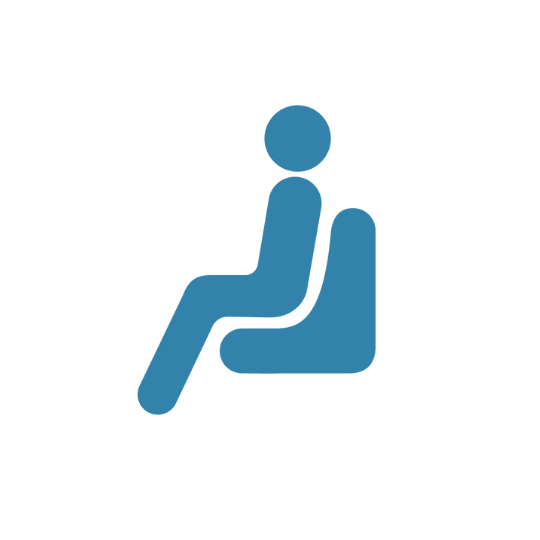
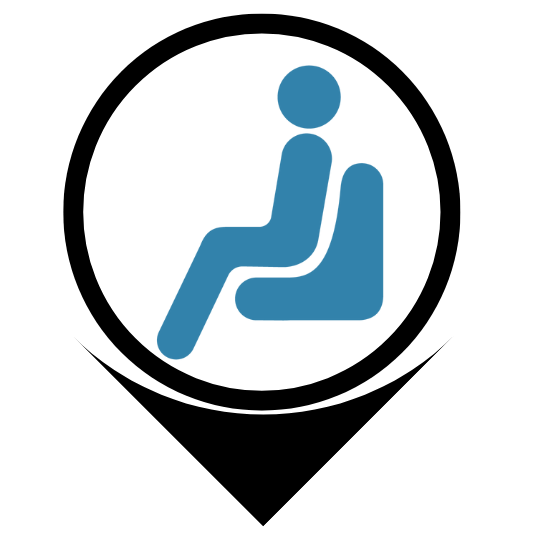
マップのデザインを修正

Changed region(s): [[0.1185, 0.0, 0.8593, 0.9778], [0.2963, 0.563, 0.3259, 0.6222], [0.7704, 0.6519, 0.8, 0.6815]]

diff --git a/next/src/pages/outdoorcoolingtips.tsx b/next/src/pages/outdoorcoolingtips.tsx
@@ -107,7 +107,7 @@ const OutdoorCoolingTips: NextPage = () => {
             elevation={3}
             sx={{
               display: 'inline-block',
-              padding: '1rem 2rem',
+              padding: '1rem 1rem',
               backgroundColor: '#ff7043',
               color: '#ffffff',
               borderRadius: '1rem',
@@ -126,6 +126,7 @@ const OutdoorCoolingTips: NextPage = () => {
               variant="h5"
               sx={{
                 fontWeight: 'bold',
+                fontSize: { xs: '1.25rem', sm: '1.5rem', md: '2rem' }, // レスポンシブ対応
                 display: 'inline-block',
                 verticalAlign: 'middle',
               }}
@@ -142,7 +143,7 @@ const OutdoorCoolingTips: NextPage = () => {
               sx={{
                 display: 'inline-block',
                 marginTop: '1rem',
-                padding: '1rem 2rem',
+                padding: '1rem 0.65rem',
                 backgroundColor: '#800080', // 背景色をダークパープルに変更
                 color: '#ffffff', // テキストを白に
                 borderRadius: '1rem',
@@ -159,9 +160,10 @@ const OutdoorCoolingTips: NextPage = () => {
                 }}
               />
               <Typography
-                variant="h5"
+                variant="h6"
                 sx={{
                   fontWeight: 'bold',
+                  fontSize: { xs: '1.25rem', sm: '1.5rem', md: '2rem' },
                   display: 'inline-block',
                   verticalAlign: 'middle',
                 }}
@@ -178,11 +180,13 @@ const OutdoorCoolingTips: NextPage = () => {
           gutterBottom
           sx={{
             fontWeight: 'bold',
-            color: '#000000',
+            color: '#333',
             marginBottom: '2rem',
             textTransform: 'uppercase',
-            letterSpacing: '2px',
+            letterSpacing: '1px',
             marginTop: '100px',
+            textShadow: '1px 1px 3px rgba(0, 0, 0, 0.2)',
+            fontSize: { xs: '2rem', sm: '2rem', md: '3rem' },
           }}
         >
           外でできる暑さ対策
@@ -391,11 +395,13 @@ const OutdoorCoolingTips: NextPage = () => {
           gutterBottom
           sx={{
             fontWeight: 'bold',
-            color: '#000000',
+            color: '#333',
             marginBottom: '2rem',
             textTransform: 'uppercase',
-            letterSpacing: '2px',
+            letterSpacing: '1px',
             marginTop: '100px',
+            textShadow: '1px 1px 3px rgba(0, 0, 0, 0.2)',
+            fontSize: { xs: '2rem', sm: '2em', md: '3rem' },
           }}
         >
           休憩所情報
@@ -405,10 +411,13 @@ const OutdoorCoolingTips: NextPage = () => {
           gutterBottom
           sx={{
             fontWeight: 'bold',
-            color: '#000000',
+            color: '#333',
             marginBottom: '2rem',
             textTransform: 'uppercase',
-            letterSpacing: '2px',
+            letterSpacing: '1px',
+            marginTop: '10px',
+            textShadow: '1px 1px 3px rgba(0, 0, 0, 0.2)',
+            fontSize: { xs: '1.5rem', sm: '1.5rem', md: '2.5rem' },
           }}
         >
           休憩所として市内の公共施設にお立ち寄りください
@@ -437,6 +446,114 @@ const OutdoorCoolingTips: NextPage = () => {
           boxShadow: '0 4px 15px rgba(0, 0, 0, 0.3)',
         }}
       ></Box>
+      <Box
+        sx={{
+          display: 'flex',
+          color: 'black',
+          fontSize: '3rem',
+          justifyContent: 'center',
+          alignItems: 'center',
+          marginTop: '1rem',
+          backgroundColor: '#f5f5f5',
+          borderRadius: '0.5rem',
+          boxShadow: '0 2px 8px rgba(0, 0, 0, 0.2)',
+        }}
+      >
+        <Box
+          sx={{
+            display: 'flex',
+            alignItems: 'center',
+            marginRight: { xs: '0.25rem', sm: '1rem', md: '1rem' },
+          }}
+        >
+          <Box
+            sx={{
+              width: { xs: 45, sm: 55, md: 80 }, // レスポンシブ対応の幅
+              height: { xs: 45, sm: 55, md: 80 }, // レスポンシブ対応の高さ
+              position: 'relative', // レスポンシブImageのために必要
+            }}
+          >
+            <Image
+              src="/userposition.png"
+              alt="ウォーターサーバー"
+              layout="fill" // 親ボックスに合わせて画像をリサイズ
+              objectFit="contain" // 画像のアスペクト比を保ちながらリサイズ
+            />
+          </Box>
+          <Typography
+            variant="body1"
+            sx={{
+              fontSize: { xs: '0.75rem', sm: '1rem', md: '1.25rem' },
+            }}
+          >
+            現在地
+          </Typography>
+        </Box>
+
+        <Box
+          sx={{
+            display: 'flex',
+            alignItems: 'center',
+            marginRight: { xs: '0.25rem', sm: '1rem', md: '1rem' },
+          }}
+        >
+          <Box
+            sx={{
+              width: { xs: 40, sm: 50, md: 75 }, // レスポンシブ対応の幅
+              height: { xs: 40, sm: 50, md: 75 }, // レスポンシブ対応の高さ
+              position: 'relative', // レスポンシブImageのために必要
+            }}
+          >
+            <Image
+              src="/coolingshelter.png"
+              alt="ウォーターサーバー"
+              layout="fill" // 親ボックスに合わせて画像をリサイズ
+              objectFit="contain" // 画像のアスペクト比を保ちながらリサイズ
+            />
+          </Box>
+          <Typography
+            variant="body1"
+            sx={{
+              fontSize: { xs: '0.75rem', sm: '1rem', md: '1.25rem' },
+            }}
+          >
+            休憩所
+          </Typography>
+        </Box>
+
+        <Box
+          sx={{
+            display: 'flex',
+            alignItems: 'center',
+            marginRight: { xs: '0.25rem', sm: '1rem', md: '1rem' },
+          }}
+        >
+          <Box
+            sx={{
+              width: { xs: 40, sm: 50, md: 75 }, // レスポンシブ対応の幅
+              height: { xs: 40, sm: 50, md: 75 }, // レスポンシブ対応の高さ
+              position: 'relative', // レスポンシブImageのために必要
+            }}
+          >
+            <Image
+              src="/waterserver.png"
+              alt="ウォーターサーバー"
+              layout="fill" // 親ボックスに合わせて画像をリサイズ
+              objectFit="contain" // 画像のアスペクト比を保ちながらリサイズ
+            />
+          </Box>
+          <Typography
+            variant="body1"
+            sx={{
+              fontSize: { xs: '0.65rem', sm: '1rem', md: '1.25rem' },
+            }}
+          >
+            ウォーターサーバー
+          </Typography>
+        </Box>
+
+        {/* 他のアイコンの説明もここに追加 */}
+      </Box>
       {/* <Box mb={4} sx={{ textAlign: 'center' }}>
         <Typography
           variant="h3"

diff --git a/next/src/containers/AddMarkersContainer.tsx b/next/src/containers/AddMarkersContainer.tsx
@@ -105,16 +105,53 @@ const AddMarkersContainer: NextPage<AddMarkersProps> = ({ map }) => {
         markersRef.current.forEach((marker) => (marker.map = null))
         markersRef.current = []
 
-        const coolingshelters: Coolingshelter[] = coolingsheltersData
-          ? camelcaseKeys(coolingsheltersData)
-          : []
         const waterservers: Waterserver[] = waterserversData
           ? camelcaseKeys(waterserversData)
+          : []
+
+        const coolingshelters: Coolingshelter[] = coolingsheltersData
+          ? camelcaseKeys(coolingsheltersData)
           : []
 
         const { AdvancedMarkerElement } = (await google.maps.importLibrary(
           'marker',
         )) as google.maps.MarkerLibrary
+
+        waterservers.forEach((waterserver) => {
+          const waterserverImg = document.createElement('img')
+          waterserverImg.src = '/waterserver.png'
+          waterserverImg.alt = waterserver.name
+          waterserverImg.width = 60
+          waterserverImg.height = 75
+          waterserverImg.style.zIndex = '5'
+
+          const waterserverMarker = new AdvancedMarkerElement({
+            map,
+            position: {
+              lat: waterserver.latitude,
+              lng: waterserver.longitude,
+            },
+            title: waterserver.name,
+            content: waterserverImg,
+          })
+
+          waterserverMarker.addListener('gmp-click', function () {
+            setOpenWaterserverModal(true)
+            setSelectedWaterserver({
+              id: waterserver.id,
+              name: waterserver.name,
+              address: waterserver.address,
+              place: waterserver.place,
+              latitude: waterserver.latitude,
+              longitude: waterserver.longitude,
+              spoutType: waterserver.spoutType,
+              bottleDispenserType: waterserver.bottleDispenserType,
+              image: waterserver.image,
+            })
+          })
+
+          markersRef.current.push(waterserverMarker)
+        })
 
         coolingshelters.forEach((coolingshelter) => {
           const coolingshelterImg = document.createElement('img')
@@ -122,6 +159,7 @@ const AddMarkersContainer: NextPage<AddMarkersProps> = ({ map }) => {
           coolingshelterImg.alt = coolingshelter.name
           coolingshelterImg.width = 75
           coolingshelterImg.height = 75
+          coolingshelterImg.style.zIndex = '10'
 
           const coolingshelterMarker = new AdvancedMarkerElement({
             map,
@@ -156,41 +194,6 @@ const AddMarkersContainer: NextPage<AddMarkersProps> = ({ map }) => {
 
           markersRef.current.push(coolingshelterMarker)
         })
-
-        waterservers.forEach((waterserver) => {
-          const waterserverImg = document.createElement('img')
-          waterserverImg.src = '/waterserver.png'
-          waterserverImg.alt = waterserver.name
-          waterserverImg.width = 40
-          waterserverImg.height = 40
-
-          const waterserverMarker = new AdvancedMarkerElement({
-            map,
-            position: {
-              lat: waterserver.latitude,
-              lng: waterserver.longitude,
-            },
-            title: waterserver.name,
-            content: waterserverImg,
-          })
-
-          waterserverMarker.addListener('gmp-click', function () {
-            setOpenWaterserverModal(true)
-            setSelectedWaterserver({
-              id: waterserver.id,
-              name: waterserver.name,
-              address: waterserver.address,
-              place: waterserver.place,
-              latitude: waterserver.latitude,
-              longitude: waterserver.longitude,
-              spoutType: waterserver.spoutType,
-              bottleDispenserType: waterserver.bottleDispenserType,
-              image: waterserver.image,
-            })
-          })
-
-          markersRef.current.push(waterserverMarker)
-        })
       }
     }
 
@@ -199,8 +202,8 @@ const AddMarkersContainer: NextPage<AddMarkersProps> = ({ map }) => {
     }
   }, [
     map,
-    coolingsheltersData,
     waterserversData,
+    coolingsheltersData,
     setSelectedCoolingshelter,
     setSelectedWaterserver,
   ])

diff --git a/next/src/pages/index.tsx b/next/src/pages/index.tsx
@@ -145,6 +145,7 @@ const Index: NextPage = () => {
               variant="h5"
               sx={{
                 fontWeight: 'bold',
+                fontSize: { xs: '1.25rem', sm: '1.5rem', md: '2rem' },
                 display: 'inline-block',
                 verticalAlign: 'middle',
               }}
@@ -161,7 +162,7 @@ const Index: NextPage = () => {
               sx={{
                 display: 'inline-block',
                 marginTop: '1rem',
-                padding: '1rem 2rem',
+                padding: '1rem 1.5rem',
                 backgroundColor: '#800080', // 背景色をダークパープルに変更
                 color: '#ffffff', // テキストを白に
                 borderRadius: '1rem',
@@ -178,9 +179,10 @@ const Index: NextPage = () => {
                 }}
               />
               <Typography
-                variant="h5"
+                variant="h6"
                 sx={{
                   fontWeight: 'bold',
+                  fontSize: { xs: '1.25rem', sm: '1.5rem', md: '2rem' },
                   display: 'inline-block',
                   verticalAlign: 'middle',
                 }}

diff --git a/next/src/utils/initMap.ts b/next/src/utils/initMap.ts
@@ -7,7 +7,7 @@ export const initMap = async (
 
   if (mapElement) {
     const map = new google.maps.Map(mapElement, {
-      zoom: 16,
+      zoom: 18,
       mapId: 'DEMO_MAP_ID',
       maxZoom: 25,
       center: { lat: 35.681236, lng: 139.767125 },
